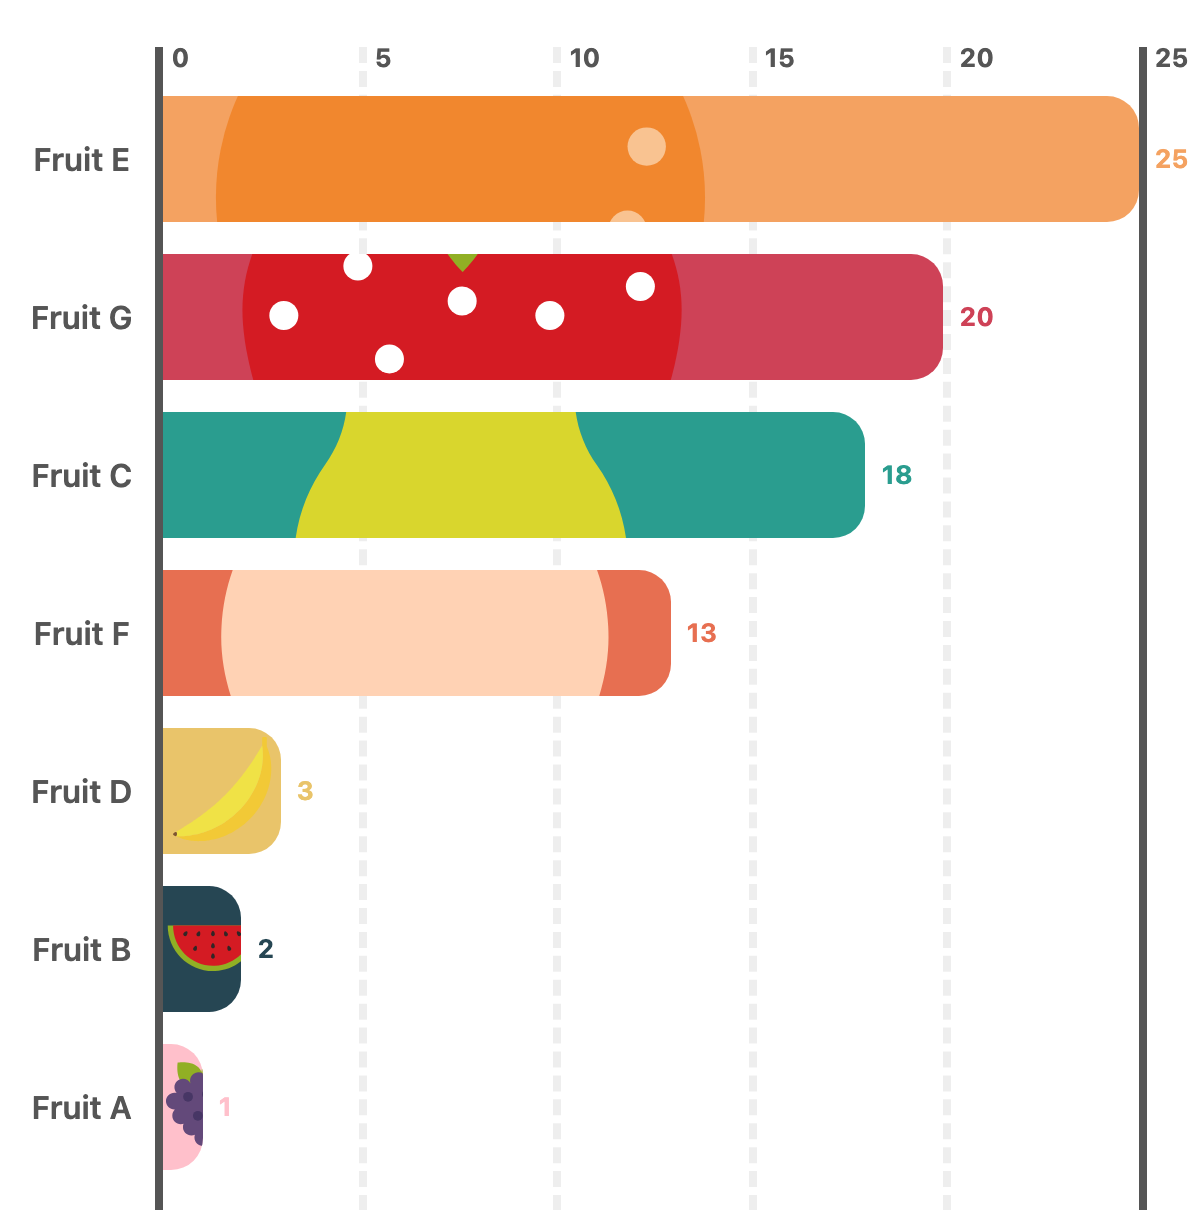
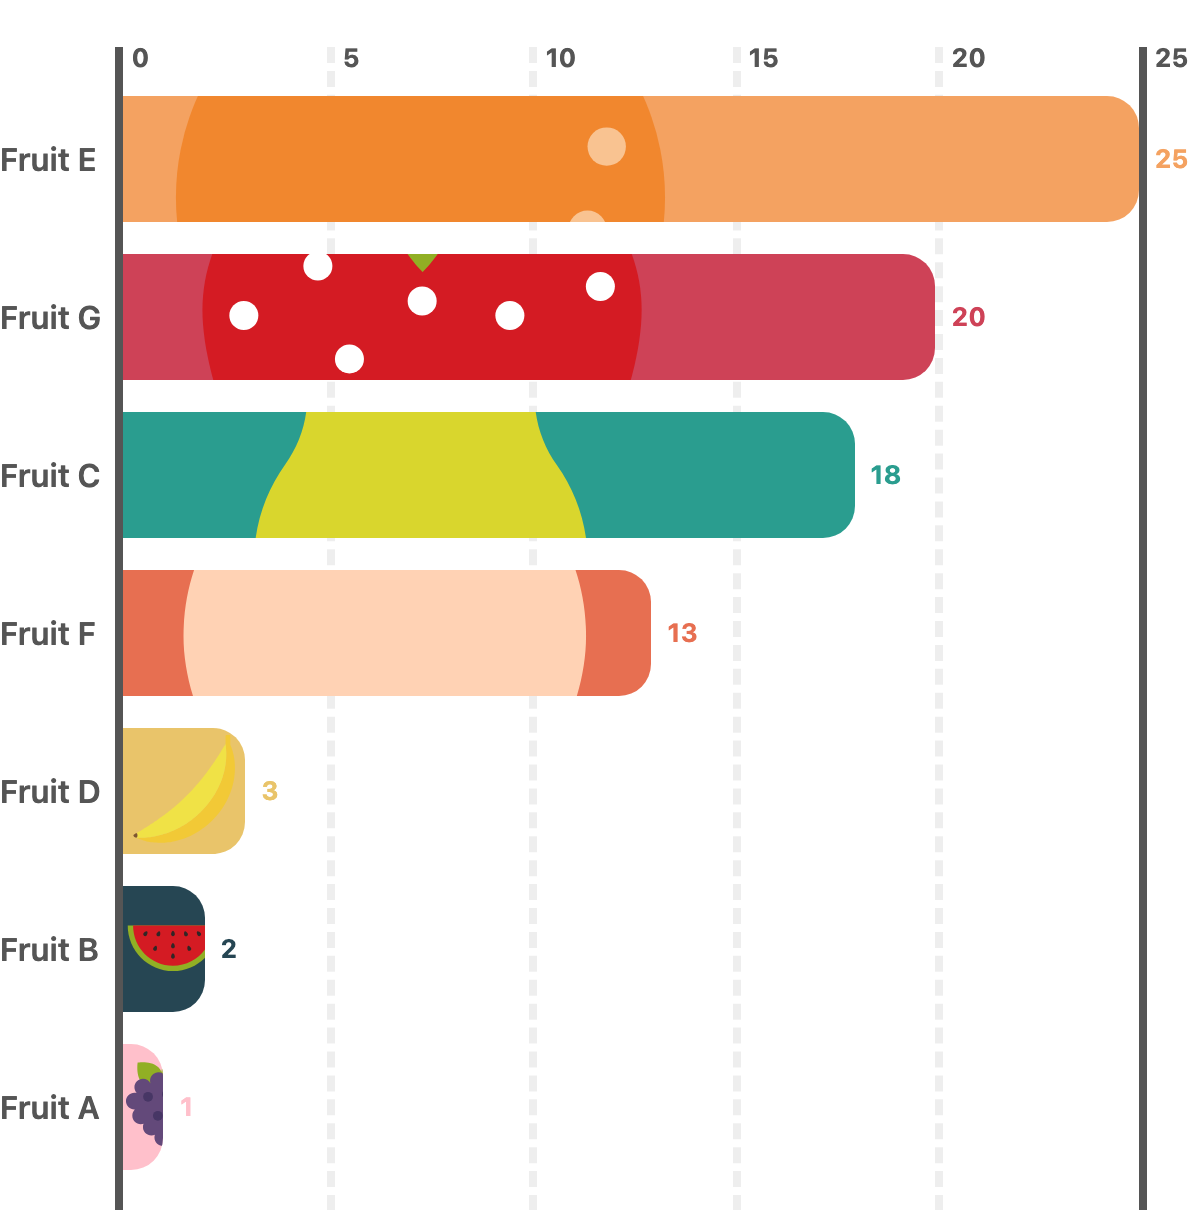
Left align the fruit card's names and narrow its gutter to 62px, matching rhp's gallery

diff --git a/src/gallery/examples/bar-chart/poster/styles.js b/src/gallery/examples/bar-chart/poster/styles.js
@@ -23,7 +23,7 @@ export const scale = `
 // A fruit: its name, its bar with the art cropped inside, and its value in the fruit's color. Hover a bar to outline it.
 export const fruit = `
 .name { font-size: 16px; font-weight: 600; line-height: 24px; color: var(--rhp-muted); }
-.name:horizontal { text-align: center; --rhp-label-gap: 0px; }
+.name:horizontal { text-align: start; --rhp-label-gap: 0px; }
 .bar { display: flex; align-items: center; overflow: hidden; --rhp-start-radius: 0px; --rhp-end-radius: 16px; }
 .bar:vertical { flex-direction: column-reverse; }
 .bar:hover { border: 4px solid var(--rhp-ink); }

diff --git a/src/gallery/examples/bar-chart/poster/chart.jsx b/src/gallery/examples/bar-chart/poster/chart.jsx
@@ -40,7 +40,7 @@ const COLORS = ["pink", "#264653", "#2a9d8f", "#e9c46a", "#f4a261", "#e76f51", "
 export const FruitSlat = slat({
   thickness: { horizontal: 79 }, // v1: seven rows in 552px; vertical: the rows share the width
   inset: "8px",
-  room: { horizontal: { start: 82, end: 32 }, vertical: { start: 32, end: 30 } }, // for the names and values
+  room: { horizontal: { start: 62, end: 32 }, vertical: { start: 32, end: 30 } }, // for the names and values
   css: styles.fruit,
 }, (d) => (
   <div class={d.dim ? "slat dim" : "slat"} style={{ "--rhp-color": d.color }}>
